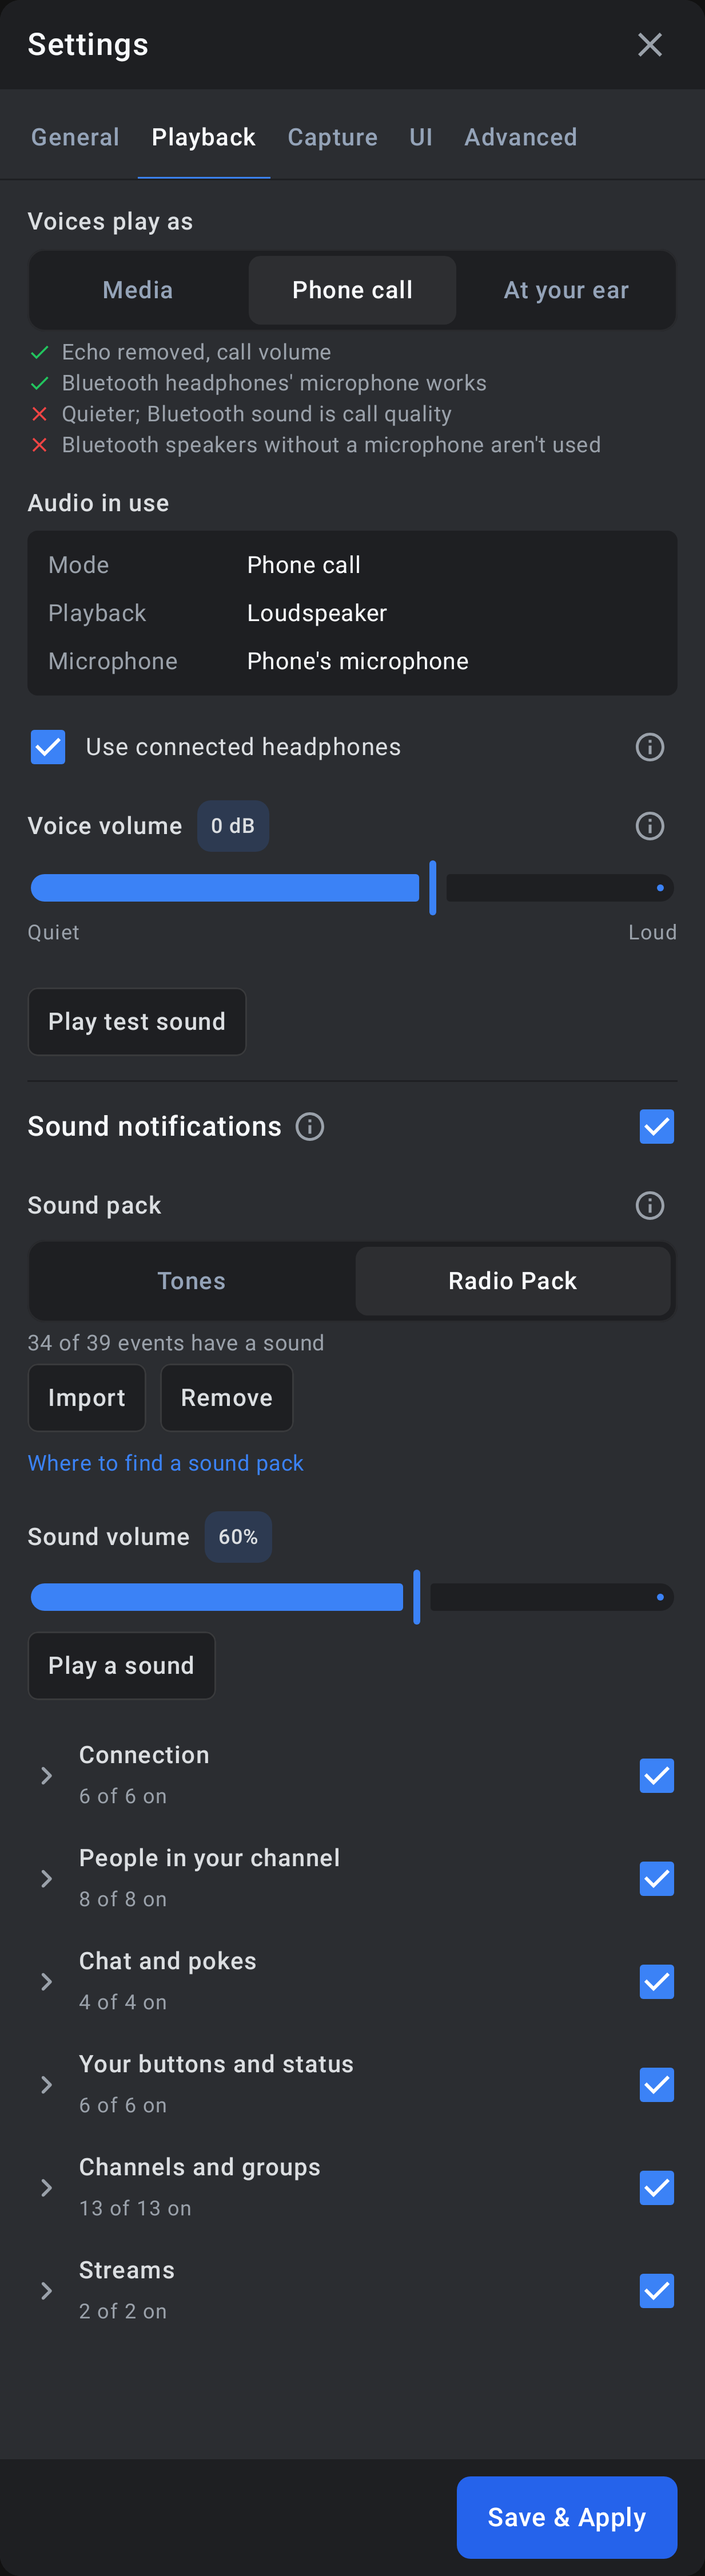
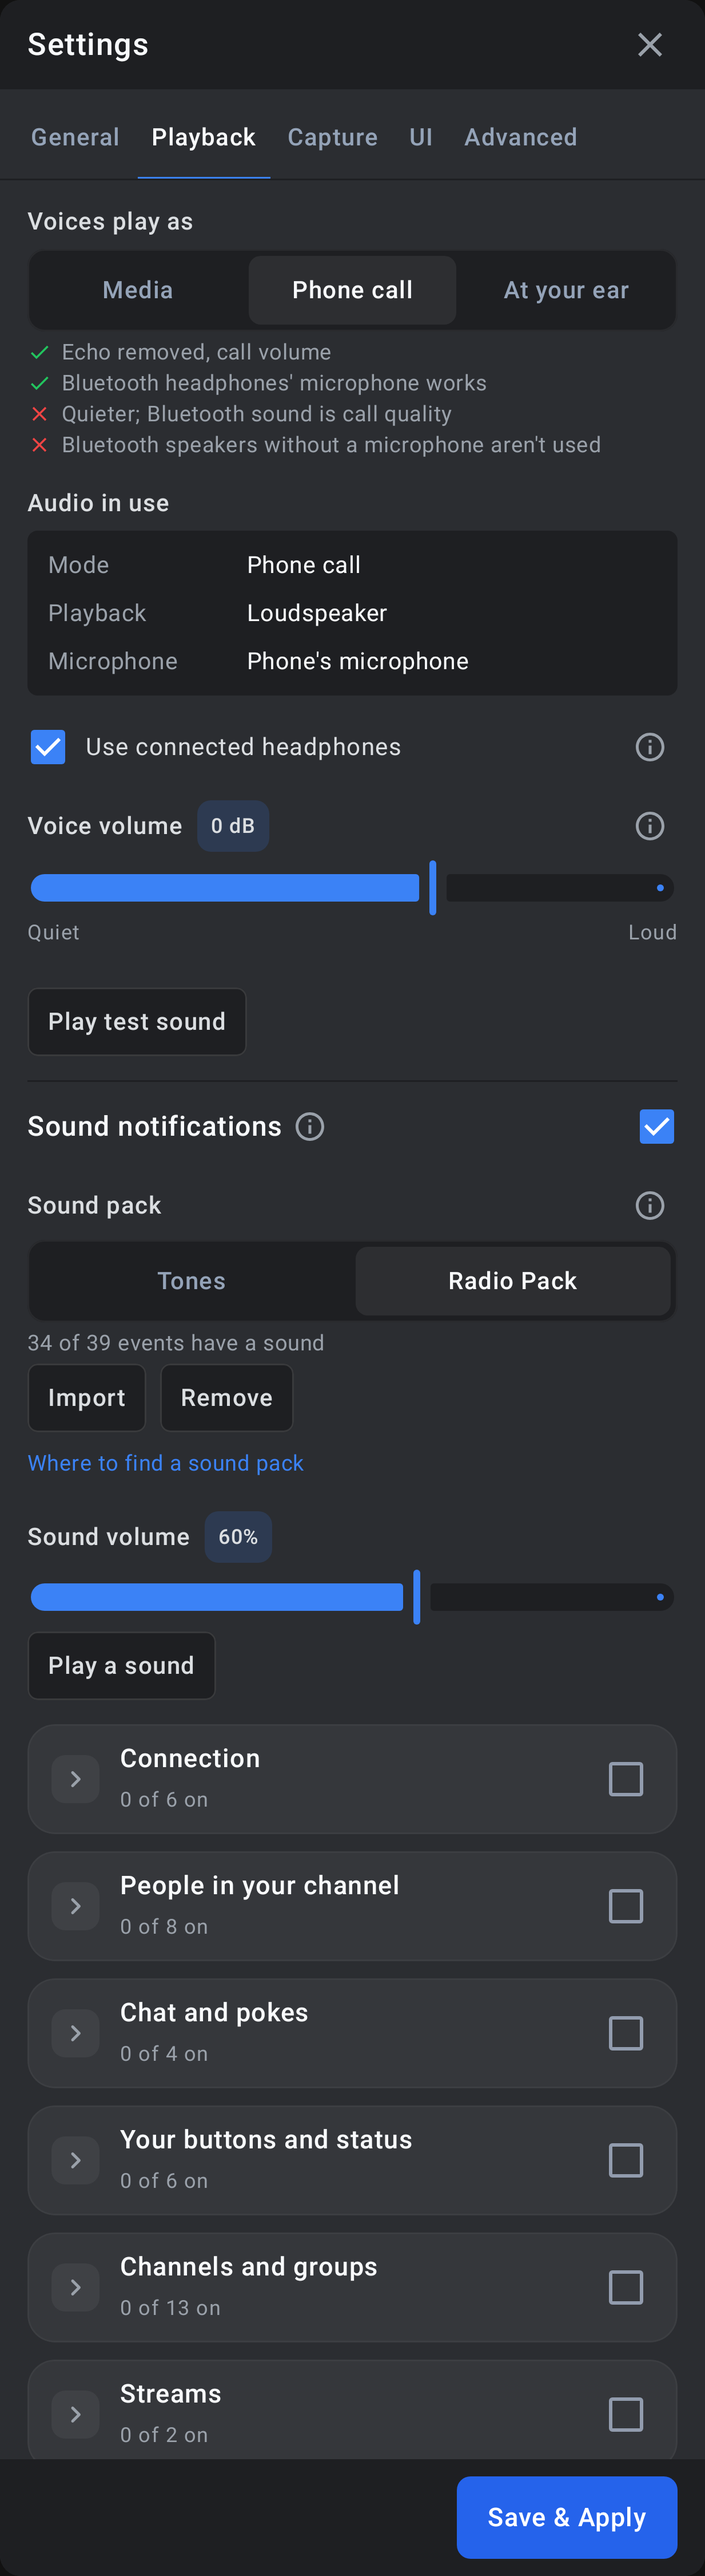
Sound notifications: boxes as in the Groups window
Each category is a box of its own with the event rows inside it, Listen at
the start and the tick at the end, as the Groups window's rows. An event
without a sound right now shows off and greyed, and can't be ticked until
it has one.

diff --git a/app/src/main/kotlin/io/github/korppujauho/pocketts/ui/SettingsDialog.kt b/app/src/main/kotlin/io/github/korppujauho/pocketts/ui/SettingsDialog.kt
@@ -708,93 +708,119 @@ internal val SOUND_CATEGORIES: List<Pair<Int, List<Cue>>> = listOf(
 )
 
 /**
- * Each event on or off, in its category: a category opens with a tap, and its box turns all of its events on or off
- * (all on: off; otherwise all on). Listen plays the event's sound, also while it's off. An event without a sound right
- * now says why: the tones have none for it, or the pack chosen has none. [open]: the categories open at first.
+ * Each event on or off, a category to a box as in the Groups window: the category's row opens it with a tap, and its
+ * tick turns all of its events on or off (all on: off; otherwise all on). In each event's row, Listen (the round
+ * button at the start) plays its sound, also while it's off. An event without a sound right now shows off, greyed,
+ * and says why: the tones have none for it, or the pack chosen has none. It plays once it has one, unless switched
+ * off. [open]: the categories open at first.
  */
 @Composable
 internal fun EventSounds(v: VoiceSettings, pack: SoundPackInfo?, onChange: (VoiceSettings) -> Unit, open: Set<Int> = emptySet()) {
     val packCues = pack?.cues
     val usingPack = v.soundPack && packCues != null
-    Column {
+    Column(verticalArrangement = Arrangement.spacedBy(10.dp)) {
         for ((i, category) in SOUND_CATEGORIES.withIndex()) {
             val (titleId, cues) = category
             var opened by rememberSaveable(titleId) { mutableStateOf(i in open) }
-            val on = cues.count { it.name !in v.mutedSounds }
+            val sounding = cues.filter { UiSounds.hasSound(it, v, packCues) }
+            val on = sounding.count { it.name !in v.mutedSounds }
             val title = stringResource(titleId)
-            Row(Modifier.fillMaxWidth().heightIn(min = 48.dp), verticalAlignment = Alignment.CenterVertically) {
+            Column(
+                Modifier.fillMaxWidth().clip(RoundedCornerShape(16.dp)).background(Pop.field)
+                    .border(1.dp, Color(0x0AFFFFFF), RoundedCornerShape(16.dp)),
+            ) {
                 Row(
-                    Modifier.weight(1f).clip(RoundedCornerShape(6.dp)).clickable { opened = !opened }
-                        .semantics { if (opened) collapse { opened = false; true } else expand { opened = true; true } }.padding(vertical = 6.dp),
+                    Modifier.fillMaxWidth().heightIn(min = 56.dp),
                     verticalAlignment = Alignment.CenterVertically,
                 ) {
-                    androidx.compose.material3.Icon(
-                        Icons.Rounded.ExpandMore, contentDescription = null, tint = Ts.muted,
-                        modifier = Modifier.size(22.dp).graphicsLayer { rotationZ = if (opened) 0f else -90f },
-                    )
-                    Column(Modifier.padding(start = 8.dp)) {
-                        Text(title, color = Ts.text, fontWeight = FontWeight.SemiBold, fontSize = 14.sp)
-                        Text(stringResource(R.string.sounds_on_count, on, cues.size), color = Ts.muted, fontSize = 12.sp)
+                    Row(
+                        Modifier.weight(1f).clickable { opened = !opened }
+                            .semantics { if (opened) collapse { opened = false; true } else expand { opened = true; true } }
+                            .padding(start = 14.dp, top = 8.dp, bottom = 8.dp),
+                        verticalAlignment = Alignment.CenterVertically, horizontalArrangement = Arrangement.spacedBy(12.dp),
+                    ) {
+                        Box(Modifier.size(28.dp).clip(RoundedCornerShape(8.dp)).background(Color(0x0DFFFFFF)), contentAlignment = Alignment.Center) {
+                            androidx.compose.material3.Icon(
+                                Icons.Rounded.ExpandMore, contentDescription = null, tint = Ts.muted,
+                                modifier = Modifier.size(20.dp).graphicsLayer { rotationZ = if (opened) 0f else -90f },
+                            )
+                        }
+                        Column {
+                            Text(title, color = Ts.bright, fontWeight = FontWeight.SemiBold, fontSize = 15.sp)
+                            Text(stringResource(R.string.sounds_on_count, on, cues.size), color = Ts.muted, fontSize = 12.sp)
+                        }
+                    }
+                    androidx.compose.runtime.CompositionLocalProvider(androidx.compose.material3.LocalMinimumInteractiveComponentSize provides 0.dp) {
+                        androidx.compose.material3.TriStateCheckbox(
+                            when (on) {
+                                0 -> androidx.compose.ui.state.ToggleableState.Off
+                                sounding.size -> androidx.compose.ui.state.ToggleableState.On
+                                else -> androidx.compose.ui.state.ToggleableState.Indeterminate
+                            },
+                            onClick = {
+                                val names = sounding.map { it.name }.toSet()
+                                onChange(v.copy(mutedSounds = if (on == sounding.size) v.mutedSounds + names else v.mutedSounds - names))
+                            },
+                            enabled = sounding.isNotEmpty(),
+                            colors = soundCheckColors(),
+                            modifier = Modifier.padding(start = 12.dp, end = 18.dp, top = 12.dp, bottom = 12.dp)
+                                .semantics { contentDescription = title },
+                        )
                     }
                 }
-                androidx.compose.runtime.CompositionLocalProvider(androidx.compose.material3.LocalMinimumInteractiveComponentSize provides 0.dp) {
-                    androidx.compose.material3.TriStateCheckbox(
-                        when (on) {
-                            cues.size -> androidx.compose.ui.state.ToggleableState.On
-                            0 -> androidx.compose.ui.state.ToggleableState.Off
-                            else -> androidx.compose.ui.state.ToggleableState.Indeterminate
-                        },
-                        onClick = {
-                            val names = cues.map { it.name }.toSet()
-                            onChange(v.copy(mutedSounds = if (on == cues.size) v.mutedSounds + names else v.mutedSounds - names))
-                        },
-                        colors = CheckboxDefaults.colors(checkedColor = Ts.accent, uncheckedColor = Ts.muted),
-                        // Lined up with the heading's box at the end
-                        modifier = Modifier.padding(start = 12.dp, top = 12.dp, bottom = 12.dp).semantics { contentDescription = title },
-                    )
-                }
+                if (opened) for (cue in cues) EventSoundRow(cue, v, cue in sounding, usingPack, onChange)
             }
-            if (opened) for (cue in cues) EventSoundRow(cue, v, UiSounds.hasSound(cue, v, packCues), usingPack, onChange)
+        }
+    }
+}
+
+/** An event in its category's box: Listen, its name (and why it has no sound, when it hasn't), and its tick at the end. */
+@Composable
+private fun EventSoundRow(cue: Cue, v: VoiceSettings, has: Boolean, usingPack: Boolean, onChange: (VoiceSettings) -> Unit) {
+    val on = has && cue.name !in v.mutedSounds
+    val name = stringResource(cueName(cue))
+    Box(Modifier.fillMaxWidth().height(1.dp).background(Color(0x0DFFFFFF)))
+    Row(
+        Modifier.fillMaxWidth()
+            .toggleable(on, enabled = has, role = androidx.compose.ui.semantics.Role.Checkbox) {
+                onChange(v.copy(mutedSounds = if (it) v.mutedSounds - cue.name else v.mutedSounds + cue.name))
+            }
+            .padding(start = 14.dp, end = 6.dp).heightIn(min = 52.dp),
+        verticalAlignment = Alignment.CenterVertically, horizontalArrangement = Arrangement.spacedBy(12.dp),
+    ) {
+        val listen = stringResource(R.string.sound_listen)
+        Box(
+            Modifier.size(28.dp).clip(RoundedCornerShape(8.dp))
+                .background(if (has) Ts.accent.copy(alpha = 0.16f) else Color(0x0DFFFFFF))
+                .then(
+                    if (has) Modifier.clickable { UiSounds.listen(cue, v) }
+                        .clearAndSetSemantics { contentDescription = "$listen: $name"; role = androidx.compose.ui.semantics.Role.Button }
+                    else Modifier.clearAndSetSemantics {}
+                ),
+            contentAlignment = Alignment.Center,
+        ) {
+            androidx.compose.material3.Icon(
+                Icons.Rounded.PlayArrow, contentDescription = null, tint = if (has) Ts.accent else Ts.faint, modifier = Modifier.size(18.dp),
+            )
+        }
+        Column(Modifier.weight(1f).padding(vertical = 8.dp)) {
+            Text(name, color = if (has) Ts.text else Ts.muted, fontSize = 14.sp)
+            if (!has) Text(
+                stringResource(if (usingPack) R.string.sound_not_in_pack else R.string.sound_pack_only),
+                color = Ts.faint, fontSize = 12.sp,
+            )
+        }
+        androidx.compose.runtime.CompositionLocalProvider(androidx.compose.material3.LocalMinimumInteractiveComponentSize provides 0.dp) {
+            Checkbox(on, null, enabled = has, colors = soundCheckColors(), modifier = Modifier.padding(12.dp))
         }
     }
 }
 
 @Composable
-private fun EventSoundRow(cue: Cue, v: VoiceSettings, has: Boolean, usingPack: Boolean, onChange: (VoiceSettings) -> Unit) {
-    val on = cue.name !in v.mutedSounds
-    val name = stringResource(cueName(cue))
-    Row(Modifier.fillMaxWidth().padding(start = 30.dp), verticalAlignment = Alignment.CenterVertically) {
-        Row(
-            Modifier.weight(1f).toggleable(on, role = androidx.compose.ui.semantics.Role.Checkbox) {
-                onChange(v.copy(mutedSounds = if (it) v.mutedSounds - cue.name else v.mutedSounds + cue.name))
-            }.padding(vertical = 6.dp),
-            verticalAlignment = Alignment.CenterVertically,
-        ) {
-            androidx.compose.runtime.CompositionLocalProvider(androidx.compose.material3.LocalMinimumInteractiveComponentSize provides 0.dp) {
-                Checkbox(on, null, colors = CheckboxDefaults.colors(checkedColor = Ts.accent, uncheckedColor = Ts.muted))
-            }
-            Column(Modifier.padding(start = 10.dp)) {
-                Text(name, color = if (has) Ts.text else Ts.muted, fontSize = 14.sp)
-                if (!has) Text(
-                    stringResource(if (usingPack) R.string.sound_not_in_pack else R.string.sound_pack_only),
-                    color = Ts.muted, fontSize = 12.sp,
-                )
-            }
-        }
-        if (has) {
-            val listen = stringResource(R.string.sound_listen)
-            Row(
-                Modifier.clip(RoundedCornerShape(6.dp)).clickable { UiSounds.listen(cue, v) }
-                    .clearAndSetSemantics { contentDescription = "$listen: $name"; role = androidx.compose.ui.semantics.Role.Button }
-                    .padding(horizontal = 8.dp, vertical = 10.dp),
-                verticalAlignment = Alignment.CenterVertically,
-            ) {
-                androidx.compose.material3.Icon(Icons.Rounded.PlayArrow, contentDescription = null, tint = Ts.accent, modifier = Modifier.size(18.dp))
-                Text(listen, color = Ts.accent, fontSize = 12.5.sp, modifier = Modifier.padding(start = 2.dp))
-            }
-        }
-    }
-}
+private fun soundCheckColors() = CheckboxDefaults.colors(
+    checkedColor = Ts.accent, uncheckedColor = Ts.muted, disabledCheckedColor = Ts.accent.copy(alpha = 0.4f), disabledUncheckedColor = Ts.faint,
+    disabledIndeterminateColor = Ts.accent.copy(alpha = 0.4f),
+)
 
 /** The event's name in the list. */
 private fun cueName(cue: Cue): Int = when (cue) {

diff --git a/app/src/test/kotlin/io/github/korppujauho/pocketts/SoundNotificationsTest.kt b/app/src/test/kotlin/io/github/korppujauho/pocketts/SoundNotificationsTest.kt
@@ -5,6 +5,9 @@ import androidx.compose.runtime.mutableStateOf
 import androidx.compose.runtime.remember
 import androidx.compose.runtime.setValue
 import androidx.compose.ui.test.assertIsDisplayed
+import androidx.compose.ui.test.assertIsNotEnabled
+import androidx.compose.ui.test.assertIsOff
+import androidx.compose.ui.test.assertIsOn
 import androidx.compose.ui.test.junit4.createComposeRule
 import androidx.compose.ui.test.onAllNodesWithText
 import androidx.compose.ui.test.onNodeWithContentDescription
@@ -95,5 +98,9 @@ class SoundNotificationsTest {
         compose.onNodeWithContentDescription("Listen: You were poked").assertIsDisplayed()
         // A message arrived, You sent a message, Someone whispers to you
         assertEquals(3, compose.onAllNodesWithText("Not in this pack", substring = true).fetchSemanticsNodes().size)
+        // Shown off, and can't be ticked while it has no sound
+        compose.onNodeWithText("A message arrived").assertIsOff().assertIsNotEnabled()
+        compose.onNodeWithText("You were poked").assertIsOn()
+        compose.onNodeWithText("1 of 4 on").assertIsDisplayed()
     }
 }

diff --git a/app/src/test/kotlin/io/github/korppujauho/pocketts/ScreenshotTest.kt b/app/src/test/kotlin/io/github/korppujauho/pocketts/ScreenshotTest.kt
@@ -349,6 +349,7 @@ class ScreenshotTest {
 
     /** Sound notifications' events, People in your channel opened: one switched off, two the pack has no sound for. */
     @Test
+    @Config(qualifiers = "w411dp-h1100dp-xxhdpi")
     fun settingsSoundEvents() = shot("settings-sound-events") {
         val cues = UiSounds.Cue.entries.toSet() - UiSounds.Cue.SOMEONE_KICKED_SERVER - UiSounds.Cue.SOMEONE_BANNED -
             UiSounds.Cue.CHANNEL_MOVED - UiSounds.Cue.CHANNEL_EDITED - UiSounds.Cue.STREAM_STARTED
